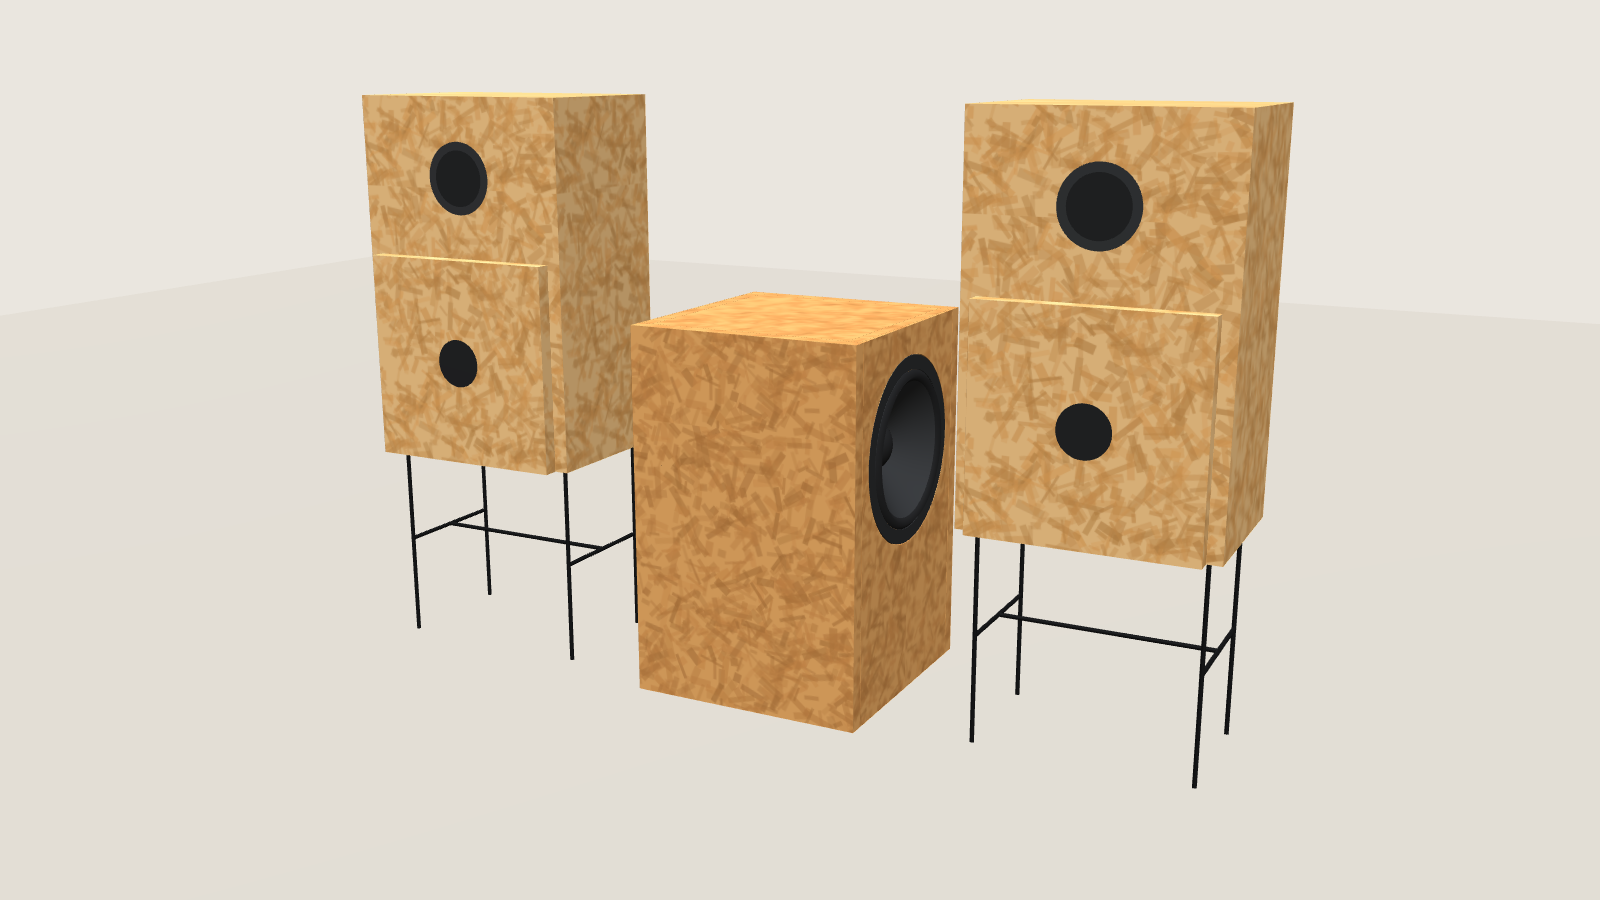
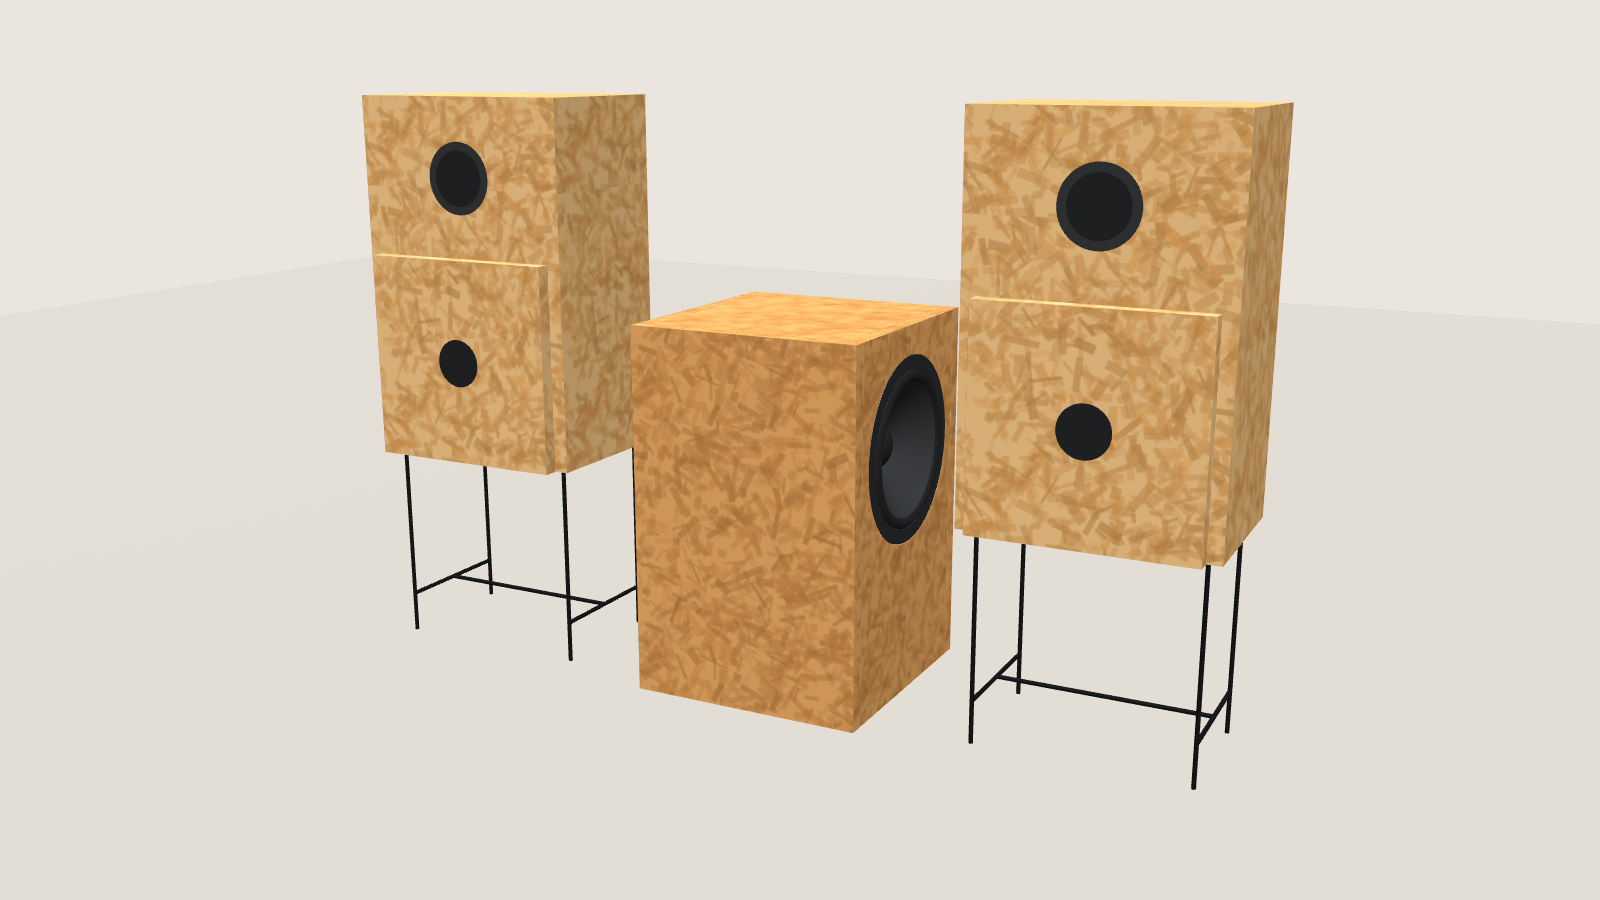
3D model: the Le Petit stand as in its plan (legs 296 × 188, H of bars 60 above the floor)

diff --git a/docs/3d/index.html b/docs/3d/index.html
@@ -233,11 +233,14 @@ function lePetit(name){
   const disc=(r,y,z,m)=>{const o=new THREE.Mesh(new THREE.CircleGeometry(r,48),m);o.position.set(0,y,z);o.userData=info;g.add(o);return o;};
   disc(52,base+LH-115,zf-22+0.6,M.lpDark); disc(40,base+LH-115,zf-22+1.2,M.lpCone);
   disc(35,base+150,zf+0.6,M.lpCone);
-  const leg=(x,z)=>{const l=new THREE.Mesh(new THREE.CylinderGeometry(3,3,300,12),M.steel);l.position.set(x,base-150,z);l.userData={name:'Le Petit stand',info:'300 high'};g.add(l);};
-  const zc=zf-22-LD/2;
-  [[-148,zc-90],[148,zc-90],[-148,zc+90],[148,zc+90]].forEach(([x,z])=>leg(x,z));
-  [-148,148].forEach(x=>{const r=new THREE.Mesh(new THREE.CylinderGeometry(3,3,180,12).rotateX(Math.PI/2),M.steel);r.position.set(x,base-150,zc);g.add(r);});
-  const hx=new THREE.Mesh(new THREE.CylinderGeometry(3,3,296,12).rotateZ(Math.PI/2),M.steel);hx.position.set(0,base-150,zc);g.add(hx);
+  // the Le Petit stand as in its plan: Ø6 legs 22 from the box faces (296 × 188 on the axes), an H of bars 60 above the floor
+  const SINFO='Ø6 bright round steel, silver-soldered · legs 22 from the box faces (296 × 188), H of bars 60 above the floor';
+  const zc=zf-22-LD/2, floorY=base-300, barY=floorY+60;
+  const rod=(len,pos,rot)=>{const geo=new THREE.CylinderGeometry(3,3,len,12); if(rot==='x') geo.rotateZ(Math.PI/2); if(rot==='z') geo.rotateX(Math.PI/2);
+    const r=new THREE.Mesh(geo,M.steel); r.position.set(...pos); r.userData={name:'Le Petit stand',info:SINFO}; g.add(r);};
+  [[-148,zc-94],[148,zc-94],[-148,zc+94],[148,zc+94]].forEach(([x,z])=>rod(300,[x,base-150,z]));
+  [-148,148].forEach(x=>rod(188,[x,barY,zc],'z'));
+  rod(296,[0,barY,zc],'x');
   scene.add(g); return g;
 }
 const GAP=130, LPX=W/2+GAP+340/2;
